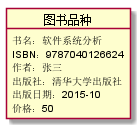
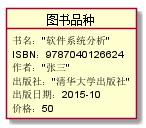
第三次提交

diff --git a/test3/README.md b/test3/README.md
@@ -83,6 +83,7 @@ class 罚款细则
 ### 1.3. 类图说明：
 
 从此类图中，主要可以看出：本图书管理系统包含馆藏目录、馆藏资源品种、资源项、预定记录、图书品种、借书记录、读者、逾期记录、罚款细则、图书管理员这十个类。其中读者类包括读者的姓名、身份证号、借书卡号、图书限额、已借图书数、可借图书数等属性；图书类包含书名、作者、ISBN、出版社、出版日期、价格等属性；预定记录类包含预定图书的书名、预定日期、预定数量、预定状态（分为已预定/已取消预定）等属性；借书记录类包含借书目录、借书数量、借书日期、归还目录、归还数量、归还日期、借书状态（分为未归还完/已归还完）等属性；图书管理员类包含管理员职工号、姓名等属性；逾期记录类包含应归还日期（即逾期开始日期）、归还日期（即逾期结束日期）、逾期天数等属性。
+读者类是由维护读者信息实例所产生，被维护读者信息实例、查询书目实例、预定图书实例、查询借阅情况实例、借出图书实例、归还图书实例所使用；图书类由维护图书信息实例产生，被维护图书信息实例、维护书目实例所使用；预定记录类由预定图书实例产生，被预定图书实例、取消预定实例所使用；借书记录类是由借出图书实例所产生，被借出图书实例、归还图书实例所使用；图书管理员类是由维护图书管理员实例产生，被维护图书管理员实例所使用；逾期记录类是由归还超期实例产生，被归还超期实例所使用。
 
 
 ## 2. 图书管理系统的对象图
@@ -91,7 +92,7 @@ class 罚款细则
 ``` object1
 @startuml
 object 读者{
-姓名：张三
+姓名："张三"
 身份证号：110108199709091109
 借书卡号：201201109
 借书限额：20
@@ -109,10 +110,10 @@ object 读者{
 ``` object2
 @startuml
 object 图书品种{
-书名：软件系统分析
+书名："软件系统分析"
 ISBN：9787040126624
-作者：张三
-出版社：清华大学出版社
+作者："张三"
+出版社："清华大学出版社"
 出版日期：2015-10
 价格：50
 }
@@ -127,7 +128,7 @@ ISBN：9787040126624
 ``` object3
 @startuml
 object 预定记录{
-书名：软件系统分析
+书名："软件系统分析"
 预定日期：2018-1-10
 预定数量：2
 预定状态：已预定
@@ -143,14 +144,14 @@ object 预定记录{
 ``` object4
 @startuml
 object 借书记录{
-书名：软件系统分析、简爱
+书名："软件系统分析"、"简爱"
 借书数量：2
 借书日期：2018-1-12
 应还日期：2018-2-13
-归还书名：软件系统分析
+归还书名："软件系统分析"
 归还数量：1
 归还日期：2018-1-30
-状态：未归还完
+状态："未归还完"
 }
 @enduml
 ```
@@ -163,7 +164,7 @@ object 借书记录{
 ``` object5
 @startuml
 object 图书管理员{
-姓名：李四
+姓名："李四"
 职工号：12369
 }
 @enduml
